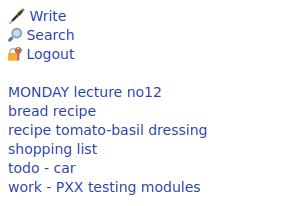
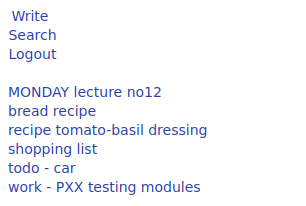
996 bytes baby

Changed region(s): [[0.0294, 0.0291, 0.2647, 0.2039], [0.0, 0.233, 0.2353, 0.3204]]

diff --git a/index.php b/index.php
@@ -1,1 +1,1 @@
-<?php session_start();if(isset($_POST["n"])){$n=$_POST["n"];$c=$_POST["c"];if(file_put_contents("n/".$n,$c)){header("Location: .");}}if(isset($_GET["d"])){$d=$_GET["d"];if(unlink($d)){header("Location: .");}}if(isset($_GET["o"])){$d=$_GET["o"];if(session_destroy()){header("Location: index.php");}} ?><!doctypehtml><html><head><meta charset="utf-8"><title>note</title><style>body,html{height:100%;font:sans-serif}a,body,form,input,summary,textarea{box-sizing:border-box;margin:0;padding:0}body{max-width:700px;margin:0 auto;padding:12px}a,summary{color:#2a3fa8;text-decoration:none;height:19px}body>a::after{content:"";display:block}form{height:100%}form>*{outline:0}#n{width:170px;height:19px;border:1px solid #ccc;padding:4px}#s{background:0 0;color:#2e3fa8;border:0;height:19px;cursor:pointer}textarea{width:100%;height:calc(100% - 29px);resize:none;padding:9px;margin-top:10px;border:1px solid #ccc}#name:focus,textarea:focus{border:1px solid #2e3fa8}form>:not(textarea){margin-right:18px}summary{list-style:none;cursor:pointer}</style></head><body><?php if(isset($_POST["l"])&&$_POST["l"]=="x"){$_SESSION["l"]="1";}if(isset($_SESSION["l"])&&$_SESSION["l"]=="1"){if(isset($_POST["s"])){$s=$_POST["s"]."*";}else{$s="";} ?><?php if(isset($_GET["r"])){$r=$_GET["r"];if($r!==""){$f=file_get_contents($r);} ?><form action=""method="post"><input name="n"id="n"value="<?=basename($r)?>"> <input id="s"value="Save"type="submit"> <a href=".">Exit</a><?php if($r!==""){ ?><a href="?d=<?=$r?>">Delete</a><?php } ?><textarea name="c"><?=$f?></textarea></form><?php }else{ ?><a href="?r">🖋 Write</a><details><summary>🔎 Search</summary><form action=""method="post"><input name="s"></form></details><?php if($s!==""){ ?><a href="/">❌ Clear search</a><?php } ?><a href="?o">🔐 Logout</a><br><?php if(!file_exists("n")){mkdir("n");}else{foreach(glob("n/*".$s)as $f){echo"<a href='?r=".$f."'>".basename($f)."</a>";}}} ?><?php }else{ ?><form action=""method="post">Password<br><input name="l"autofocus></form><?php } ?></body></html>
+<?php session_start();if(isset($_POST["n"])){$n=$_POST["n"];$c=$_POST["c"];if(file_put_contents("n/".$n,$c)){header("Location: .");}}if(isset($_GET["d"])){$d=$_GET["d"];if(unlink($d)){header("Location: .");}}if(isset($_GET["o"])){$d=$_GET["o"];if(session_destroy()){header("Location: index.php");}} ?><!doctype html><html><head><meta charset="utf-8"><meta name="viewport"content="width=device-width,initial-scale=1"><style>body,html{height:100%;font-family:sans-serif}a,body,form,input,summary,textarea{box-sizing:border-box;margin:0;padding:0}body{max-width:700px;margin:0 auto;padding:12px}a,summary{color:#2a3fa8;text-decoration:none;height:19px}body>a::after{content:"";display:block}form{height:100%}form>*{outline:0}#n{width:170px;border:1px solid #ccc;padding:4px}#s{background:0 0;color:#2e3fa8;border:0;cursor:pointer;font-size:16px}textarea{width:100%;height:calc(100% - 29px);resize:none;padding:9px;margin-top:10px;border:1px solid #ccc}#name:focus,textarea:focus{border:1px solid #2e3fa8}form>:not(textarea){margin-right:18px}summary{list-style:none;cursor:pointer}</style></head><body><?php if(isset($_POST["l"])&&$_POST["l"]=="x"){$_SESSION["l"]="1";}if(isset($_SESSION["l"])&&$_SESSION["l"]=="1"){if(isset($_POST["s"])){$s=$_POST["s"]."*";}else{$s="";} ?><?php if(isset($_GET["r"])){$r=$_GET["r"];if($r!==""){$f=file_get_contents($r);} ?><form action=""method="post"><input name="n"id="n"value="<?=basename($r)?>"> <input id="s"value="Save"type="submit"> <a href=".">Exit</a><?php if($r!==""){ ?><a href="?d=<?=$r?>">Delete</a><?php } ?><textarea name="c"><?=$f?></textarea></form><?php }else{ ?><a href="?r">Write</a><details><summary>Search</summary><form action=""method="post"><input name="s"></form></details><?php if($s!==""){ ?><a href=".">Clear search</a><?php } ?><a href="?o">Logout</a><br><?php if(!file_exists("n")){mkdir("n");}else{foreach(glob("n/*".$s)as $f){echo"<a href='?r=".$f."'>".basename($f)."</a>";}}} ?><?php }else{ ?><form action=""method="post">Password<br><input name="l"autofocus></form><?php } ?></body></html>

diff --git a/README.md b/README.md
@@ -1,5 +1,5 @@
 # zeronote
-Ultra minimalist php flat-file notetaking app that is 999 bytes in a single file (gzipped).  
+Ultra minimalist php flat-file notetaking app that is 996 bytes in a single file (gzipped).  
 This is a no-database note taking application, that is very simple.  
 
 <img src="zero.png">
